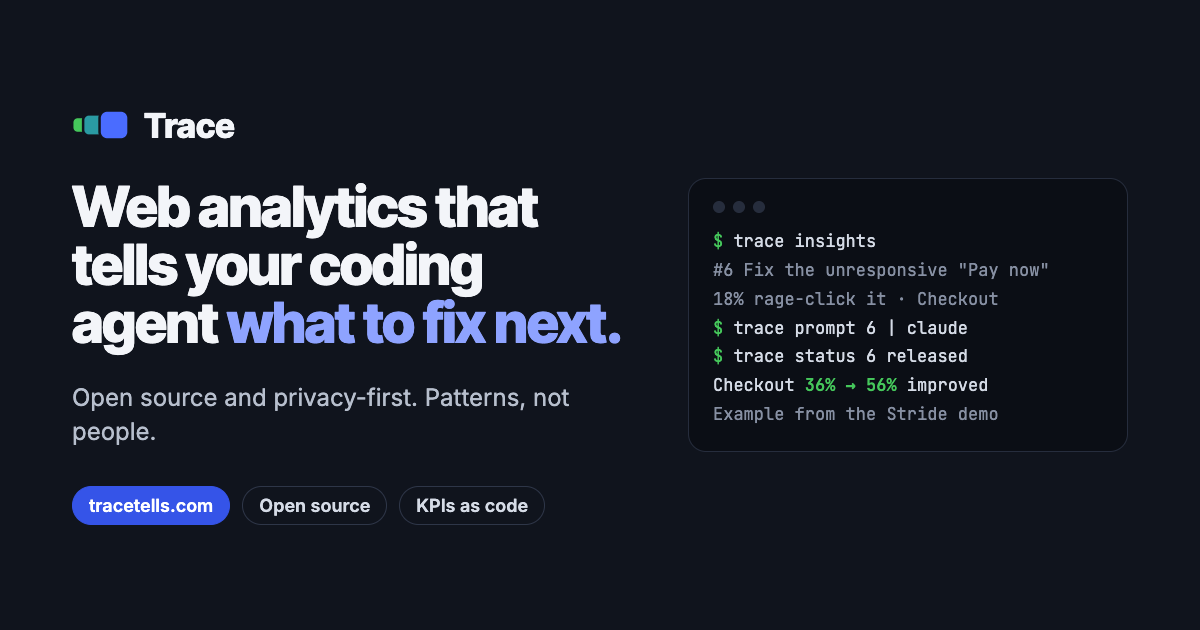
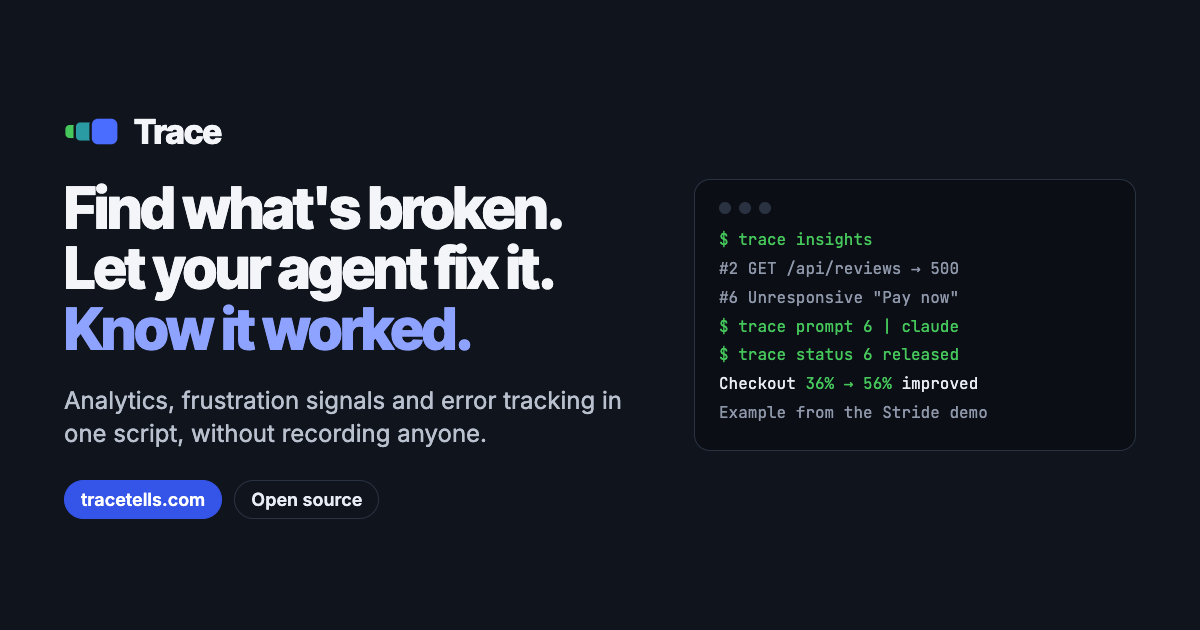
Homepage share card: the new headline
The 1200x630 preview image and the og/twitter title, description and
alt text now say "Find what's broken. Let your agent fix it. Know it
worked.", matching the page.

diff --git a/site/index.html b/site/index.html
@@ -9,19 +9,19 @@
 <meta property="og:url" content="https://tracetells.com/">
 <meta property="og:type" content="website">
 <meta property="og:site_name" content="Trace">
-<meta property="og:title" content="Trace: web analytics that tells your coding agent what to fix next">
-<meta property="og:description" content="Open-source, privacy-first web analytics. Patterns, not people: your coding agent analyses them over MCP, ships the fix, and Trace measures whether it worked.">
+<meta property="og:title" content="Trace: find what's broken. Let your agent fix it. Know it worked.">
+<meta property="og:description" content="Analytics, frustration signals and error tracking in one script, without recording anyone. Your coding agent fixes what holds visitors back, and Trace measures whether it worked. Open source.">
 <meta property="og:locale" content="en_US">
 <meta property="og:image" content="https://tracetells.com/og.png">
 <meta property="og:image:type" content="image/png">
 <meta property="og:image:width" content="1200">
 <meta property="og:image:height" content="630">
-<meta property="og:image:alt" content="Trace: web analytics that tells your coding agent what to fix next. A terminal shows trace insights, trace prompt 6 piped to claude, and checkout conversion improving from 36% to 56%.">
+<meta property="og:image:alt" content="Trace: find what's broken. Let your agent fix it. Know it worked. A terminal lists a failing API request and an unresponsive Pay now button, pipes the fix to claude, and shows checkout conversion improving from 36% to 56%.">
 <meta name="twitter:card" content="summary_large_image">
-<meta name="twitter:title" content="Trace: web analytics that tells your coding agent what to fix next">
-<meta name="twitter:description" content="Open-source, privacy-first web analytics. Patterns, not people: your coding agent analyses them over MCP, ships the fix, and Trace measures whether it worked.">
+<meta name="twitter:title" content="Trace: find what's broken. Let your agent fix it. Know it worked.">
+<meta name="twitter:description" content="Analytics, frustration signals and error tracking in one script, without recording anyone. Your coding agent fixes what holds visitors back, and Trace measures whether it worked. Open source.">
 <meta name="twitter:image" content="https://tracetells.com/og.png">
-<meta name="twitter:image:alt" content="Trace: web analytics that tells your coding agent what to fix next. A terminal shows trace insights, trace prompt 6 piped to claude, and checkout conversion improving from 36% to 56%.">
+<meta name="twitter:image:alt" content="Trace: find what's broken. Let your agent fix it. Know it worked. A terminal lists a failing API request and an unresponsive Pay now button, pipes the fix to claude, and shows checkout conversion improving from 36% to 56%.">
 <meta name="theme-color" content="#10141d">
 <script>try{var t=localStorage.getItem('trace-theme');if(t==='light'||t==='dark')document.documentElement.setAttribute('data-theme',t)}catch(e){}</script>
 <link rel="icon" href="favicon.svg" type="image/svg+xml">
